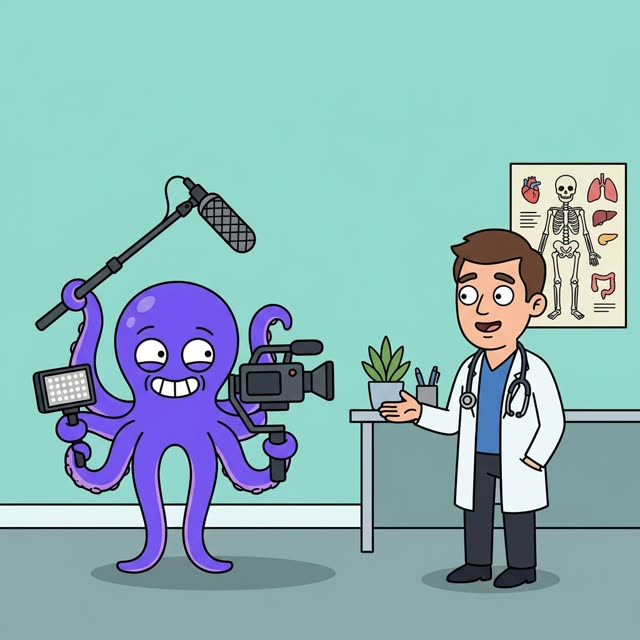
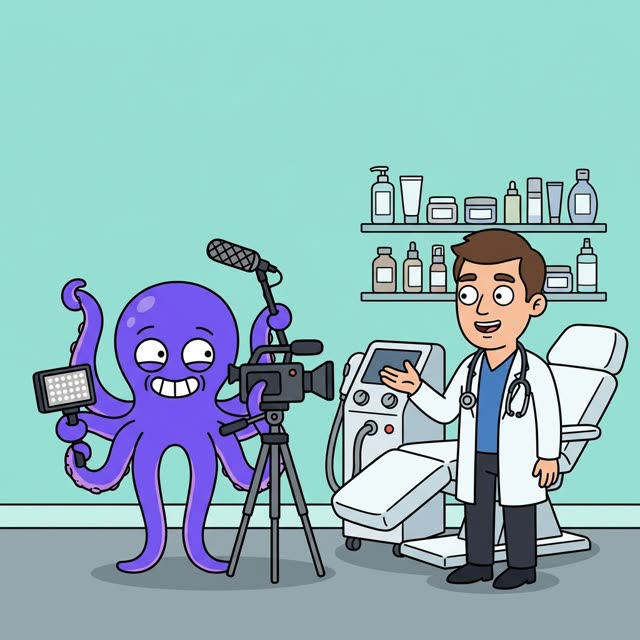
Artes do cliente: médico e médica, em clínica de estética
Médica nova (33 confirmação, 34 vídeo pronto) e a cena do médico com o
pôster de anatomia trocada por uma de estética (31-3). Quem recebe qual
vem do título no nome do cliente: "Dra." médica, "Dr." médico; sem
título, as cenas dos dois. A escolha vai na chave do aviso (arte:...),
e só sai com WHATSAPP_ARTES_CLIENTE ligado.

diff --git a/src/lib/avisos-arte.ts b/src/lib/avisos-arte.ts
@@ -32,7 +32,8 @@ export type FamiliaArte =
   | "rel_so_ok" | "rel_so_cansado" | "rel_so_apuros"
   | "parabens_capivara" | "parabens_polvo" | "parabens_camaleao" | "parabens_coelho" | "parabens_papagaio"
   | "nota_recebida" | "nota_cadastrada" | "nota_paga"
-  | "medico_confirmada" | "medico_video"
+  | "medico_confirmada" | "medica_confirmada" | "clinica_confirmada"
+  | "medico_video" | "medica_video" | "clinica_video"
 
 /**
  * `frasesDaCena`: frases próprias de uma cena (número 1…cenas, contado a partir
@@ -110,6 +111,13 @@ function familiaDoParabens(quem: Personagem) {
 }
 
 /** `arquivo` é o prefixo dos arquivos em public/avisos/cenas (NN-1.jpg …; ver `primeira`). */
+const FRASES_CONFIRMADA = [
+  "Gravação confirmada. Nossa equipe estará aí.", "Tudo pronto para a sua gravação.",
+  "Agenda confirmada. Até breve na sua clínica.", "Equipe confirmada para a sua gravação."]
+const FRASES_VIDEO = [
+  "Seu vídeo está pronto.", "Prontinho: o seu vídeo chegou.",
+  "Seu vídeo ficou pronto. Bom proveito!", "Vídeo entregue. Obrigado pela confiança."]
+
 export const FAMILIAS_ARTE: Record<FamiliaArte, Familia> = {
   fila: { arquivo: "01", cenas: 5, frases: [
     "Entrou na fila. Senta que lá vem demanda.", "Mais um na fila. A fila agradece.",
@@ -154,14 +162,16 @@ export const FAMILIAS_ARTE: Record<FamiliaArte, Familia> = {
     "Carimbado: entrou para pagamento.", "Cadastrada. O galo já bateu o carimbo."] },
   nota_paga: { arquivo: "11", primeira: 4, cenas: 2, frases: [
     "Pagamento feito. Pode gastar.", "Caiu. O galo conferiu moeda por moeda."] },
-  // O médico (cliente final) recebe arte em tom sério: sem sarcasmo e sem meme,
-  // é a cara da MediaHouse para quem paga (Giovani, 12/11/2026).
-  medico_confirmada: { arquivo: "31", cenas: 3, frases: [
-    "Gravação confirmada. Nossa equipe estará aí.", "Tudo pronto para a sua gravação.",
-    "Agenda confirmada. Até breve na sua clínica.", "Equipe confirmada para a sua gravação."] },
-  medico_video: { arquivo: "32", cenas: 2, frases: [
-    "Seu vídeo está pronto.", "Prontinho: o seu vídeo chegou.",
-    "Seu vídeo ficou pronto. Bom proveito!", "Vídeo entregue. Obrigado pela confiança."] },
+  // O médico ou a médica (cliente final, estética médica) recebe arte em tom
+  // sério: sem sarcasmo e sem meme, é a cara da MediaHouse para quem paga
+  // (Giovani, 12/11/2026). "Dr." no nome vai com o médico, "Dra." com a
+  // médica; sem título, sorteia entre as cenas dos dois (clinica_*).
+  medico_confirmada: { arquivo: "31", cenas: 3, frases: FRASES_CONFIRMADA },
+  medica_confirmada: { arquivo: "33", cenas: 2, frases: FRASES_CONFIRMADA },
+  clinica_confirmada: { arquivo: "31", cenas: 5, arquivos: ["31-1", "31-2", "31-3", "33-1", "33-2"], frases: FRASES_CONFIRMADA },
+  medico_video: { arquivo: "32", cenas: 2, frases: FRASES_VIDEO },
+  medica_video: { arquivo: "34", cenas: 2, frases: FRASES_VIDEO },
+  clinica_video: { arquivo: "32", cenas: 4, arquivos: ["32-1", "32-2", "34-1", "34-2"], frases: FRASES_VIDEO },
   ruim: { arquivo: "12", cenas: 6, frasesDaCena: { 6: ["Prazo? Pede pra IA. Ela também trava em 99%."] }, frases: [
     "O prazo venceu. A vaca já sabia.", "Respira. Depois corre. Corre muito.",
     "Ninguém entra em pânico. Exceto a vaca.", "Atrasou. Mas com estilo."] },
@@ -301,8 +311,22 @@ const ARTE_REGRA: Record<string, FamiliaArte> = {
 /** Papéis da gravação externa que nunca recebem a arte da equipe: o cliente e quem pediu. */
 const PAPEIS_SEM_ARTE = new Set(["cliente", "solicitante"])
 
-/** O cliente (o médico) só recebe estas, em tom sério: a confirmação e o vídeo pronto. */
-const ARTE_DO_CLIENTE: Record<string, FamiliaArte> = { confirmada: "medico_confirmada", concluida: "medico_video" }
+/** O cliente só recebe estas, em tom sério: a confirmação e o vídeo pronto. */
+const ARTES_DO_CLIENTE = new Set<FamiliaArte>(["medico_confirmada", "medica_confirmada", "clinica_confirmada", "medico_video", "medica_video", "clinica_video"])
+
+/**
+ * A arte do cliente (médico ou médica) num evento da gravação externa, ou null
+ * quando o evento não tem arte para ele. Decide pelo título escrito no nome do
+ * cliente ("Dra. Ana" → médica, "Dr. João" → médico); sem título, as cenas dos
+ * dois. Não adivinha pelo primeiro nome.
+ */
+export function arteDoCliente(motivo: string, nomeCliente?: string | null): FamiliaArte | null {
+  const evento = motivo === "confirmada" ? "confirmada" : motivo === "concluida" ? "video" : null
+  if (!evento) return null
+  const nome = nomeCliente?.trim() ?? ""
+  const quem = /^dra\b/i.test(nome) ? "medica" : /^dr\b/i.test(nome) ? "medico" : "clinica"
+  return `${quem}_${evento}` as FamiliaArte
+}
 
 /** Quem pode receber arte: gente da equipe cadastrada e, só nas artes dele, o cliente. */
 const DESTINOS_COM_ARTE = new Set(["usuario", "editor", "videomaker", "cliente"])
@@ -316,8 +340,10 @@ export function familiaDaSaida(s: { chave: string; destinatarioTipo: string; ori
   if (!DESTINOS_COM_ARTE.has(s.destinatarioTipo)) return null
   const partes = s.chave.split(":")
   if (s.destinatarioTipo === "cliente") {
-    // Cliente: só a arte séria dele, e só na gravação externa (grav:<id>:<motivo>:<dia>:cliente:<hash>).
-    return partes[0] === "grav" && partes[4] === "cliente" ? ARTE_DO_CLIENTE[partes[2] ?? ""] ?? null : null
+    // Cliente: só a arte séria dele. Vem na chave (arte:<familia>:grav:…, posta
+    // em avisos-gravacao); uma chave grav: sem ela fica com as cenas dos dois.
+    if (partes[0] === "arte") return ehFamilia(partes[1]) && ARTES_DO_CLIENTE.has(partes[1]) ? partes[1] : null
+    return partes[0] === "grav" && partes[4] === "cliente" ? arteDoCliente(partes[2] ?? "") : null
   }
   if (partes[0] === "arte") return ehFamilia(partes[1]) ? partes[1] : null
   if (partes[0] === "grav") {

diff --git a/tests/unit/avisos-arte.spec.ts b/tests/unit/avisos-arte.spec.ts
@@ -2,7 +2,7 @@ import { existsSync } from "node:fs"
 import { mkdir, writeFile } from "node:fs/promises"
 import { join } from "node:path"
 import { afterEach, describe, expect, it, vi } from "vitest"
-import { combinacoesDaFamilia, areaDoGestor, arteDoKanban, arteDoRelatorio, artesLigadas, chaveComArte, escolherArte, FAMILIAS_ARTE, familiaDaSaida, humorDoBriefing, humorDoSemanal, type FamiliaArte } from "@/lib/avisos-arte"
+import { combinacoesDaFamilia, areaDoGestor, arteDoCliente, arteDoKanban, arteDoRelatorio, artesLigadas, chaveComArte, escolherArte, FAMILIAS_ARTE, familiaDaSaida, humorDoBriefing, humorDoSemanal, type FamiliaArte } from "@/lib/avisos-arte"
 import { destinatariosDoAviso, STATUS_COM_AVISO_KANBAN } from "@/lib/kanban-avisos"
 import { imagemDoAviso } from "@/lib/avisos-arte-imagem"
 
@@ -106,15 +106,30 @@ describe("artes dos avisos: quem recebe qual", () => {
     expect(familiaDaSaida(saida("arte:inventada:abc"))).toBeNull()
   })
 
-  it("o médico recebe arte séria só na confirmação e no vídeo pronto (12/11/2026)", () => {
-    expect(familiaDaSaida(saida("grav:g1:confirmada:2026-11-12:cliente:abc", "cliente", "manual"))).toBe("medico_confirmada")
-    expect(familiaDaSaida(saida("grav:g1:concluida:2026-11-12:cliente:abc", "cliente", "manual"))).toBe("medico_video")
-    // Nenhum outro aviso dele, nem uma chave arte: forjada, nem um contato do inbox.
+  it("médico ou médica, pelo Dr./Dra. do nome; sem título, as cenas dos dois (12/11/2026)", () => {
+    expect(arteDoCliente("confirmada", "Dra. Ana Lima")).toBe("medica_confirmada")
+    expect(arteDoCliente("confirmada", "dra ana")).toBe("medica_confirmada")
+    expect(arteDoCliente("concluida", "Dr. João")).toBe("medico_video")
+    expect(arteDoCliente("concluida", "Clínica Bella")).toBe("clinica_video")
+    // Não adivinha pelo primeiro nome nem confunde "Drielle" com "Dr".
+    expect(arteDoCliente("confirmada", "Drielle Souza")).toBe("clinica_confirmada")
+    expect(arteDoCliente("confirmada", null)).toBe("clinica_confirmada")
+    expect(arteDoCliente("cancelada", "Dra. Ana")).toBeNull()
+    // As cenas de cada família são de quem ela diz.
+    expect(FAMILIAS_ARTE.clinica_confirmada.arquivos).toEqual(["31-1", "31-2", "31-3", "33-1", "33-2"])
+  })
+
+  it("o cliente recebe arte séria só na confirmação e no vídeo pronto (12/11/2026)", () => {
+    const chave = chaveComArte(arteDoCliente("confirmada", "Dra. Ana"), "grav:g1:confirmada:2026-11-12:cliente:abc")
+    expect(familiaDaSaida(saida(chave, "cliente", "manual"))).toBe("medica_confirmada")
+    // A chave antiga, sem a arte na frente, fica com as cenas dos dois.
+    expect(familiaDaSaida(saida("grav:g1:concluida:2026-11-12:cliente:abc", "cliente", "manual"))).toBe("clinica_video")
+    // Nenhum outro aviso dele, nem a arte da equipe numa chave forjada, nem um contato do inbox.
     expect(familiaDaSaida(saida("grav:g1:cancelada:2026-11-12:cliente:abc", "cliente", "manual"))).toBeNull()
+    expect(familiaDaSaida(saida(chaveComArte("fila", "x"), "cliente", "manual"))).toBeNull()
     expect(familiaDaSaida(saida(chaveComArte("medico_video", "x"), "inbox"))).toBeNull()
-    expect(familiaDaSaida(saida("grav:g1:confirmada:2026-11-12:cliente:abc", "inbox", "manual"))).toBeNull()
-    // A frase dele é sem sarcasmo: nada de "nota 2" nem meme de IA.
-    for (const f of ["medico_confirmada", "medico_video"] as const)
+    // A frase é sem sarcasmo: nada de "nota 2" nem meme de IA.
+    for (const f of ["medico_confirmada", "medica_confirmada", "clinica_confirmada", "medico_video", "medica_video", "clinica_video"] as const)
       for (const fr of FAMILIAS_ARTE[f].frases) expect(fr).not.toMatch(/nota 2|\bIA\b|Claude|vaca|galo/)
   })
 

diff --git a/src/lib/avisos-gravacao.ts b/src/lib/avisos-gravacao.ts
@@ -11,6 +11,7 @@ import { colinhaDaGravacao, preencherColinha } from "@/lib/kit-videomaker"
 import { arquivosDoVideoDaGravacao, linkPublicoDaDemanda } from "@/lib/acompanhamento-gravacao"
 import { linkDoVideoParaOCliente } from "@/lib/etapas-da-gravacao"
 import { comToken } from "@/lib/midia"
+import { arteDoCliente, chaveComArte } from "@/lib/avisos-arte"
 import { videomakerPedeNota } from "@/lib/videomaker-pede-nota"
 import { dadosDePagamento, pagamentoNoWhatsapp, quemVeDadosDePagamento, type DadosDePagamento } from "@/lib/pagamento-do-videomaker"
 import {
@@ -203,7 +204,10 @@ export async function enfileirarAvisos(tx: Tx, e: {
       // O parabéns sai uma vez na vida por gravação e pessoa: no lugar do dia vai
       // "unico", e reabrir e concluir de novo outro dia não repete. O formato
       // grav:<id>:concluida:…:videomaker é o que a categoria "parabens" reconhece.
-      const chave = `grav:${g.id}:${e.motivo}:${parabens ? "unico" : dia}:${papel}:${hash}`.slice(0, 128)
+      const base = `grav:${g.id}:${e.motivo}:${parabens ? "unico" : dia}:${papel}:${hash}`.slice(0, 128)
+      // O cliente leva na chave a arte dele (médico ou médica, pelo "Dr."/"Dra."
+      // do nome); ela só sai com WHATSAPP_ARTES_CLIENTE ligado (lib/avisos-arte).
+      const chave = papel === "cliente" ? chaveComArte(arteDoCliente(e.motivo, g.clienteFinalNome), base) : base
       // Já saiu hoje: não repete, e não conta como enviado.
       if (await tx.saidaWhatsapp.findUnique({ where: { organizacaoId_chave: { organizacaoId: e.organizacaoId, chave } }, select: { id: true } })) continue
       await criarSaida(tx, {

diff --git a/tests/integration/gravacao-video-final.spec.ts b/tests/integration/gravacao-video-final.spec.ts
@@ -203,8 +203,10 @@ describe("vídeo final subido no card da gravação", () => {
     expect(texto).not.toContain("/api/midia/")
     const saidas = await db.saidaWhatsapp.findMany({ where: { organizacaoId: org, referencia: id, destinatarioTipo: "cliente" }, select: { chave: true, destinatarioTipo: true, origem: true, regraContexto: true } })
     expect(saidas).toHaveLength(1)
-    expect(artesLigadas(telCliente)).toBe(true)
-    expect(familiaDaSaida(saidas[0])).toBeNull()
+    // O cliente tem chave própria: a arte da equipe ligada não liga a dele.
+    expect(artesLigadas(telCliente, "cliente")).toBe(false)
+    // A arte dele, quando ligada, é a séria do vídeo pronto.
+    expect(familiaDaSaida(saidas[0])).toMatch(/^(medico|medica|clinica)_video$/)
     vi.unstubAllEnvs()
     vi.stubEnv("NEXTAUTH_SECRET", "segredo-so-do-teste")
     vi.stubEnv("NEXTAUTH_URL", "https://nuflow.test/")
